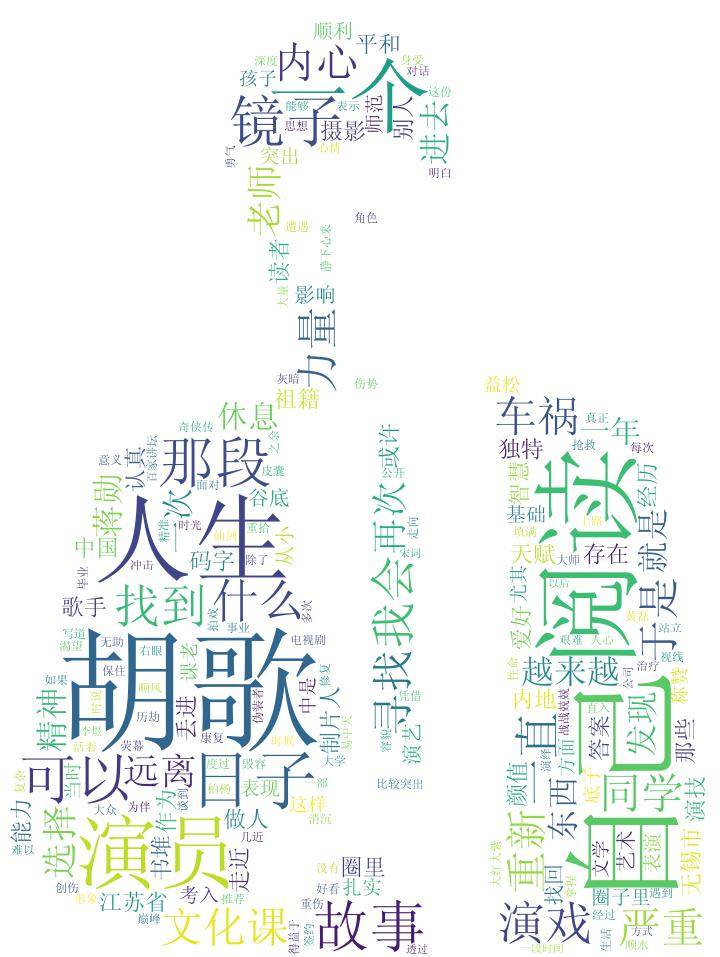
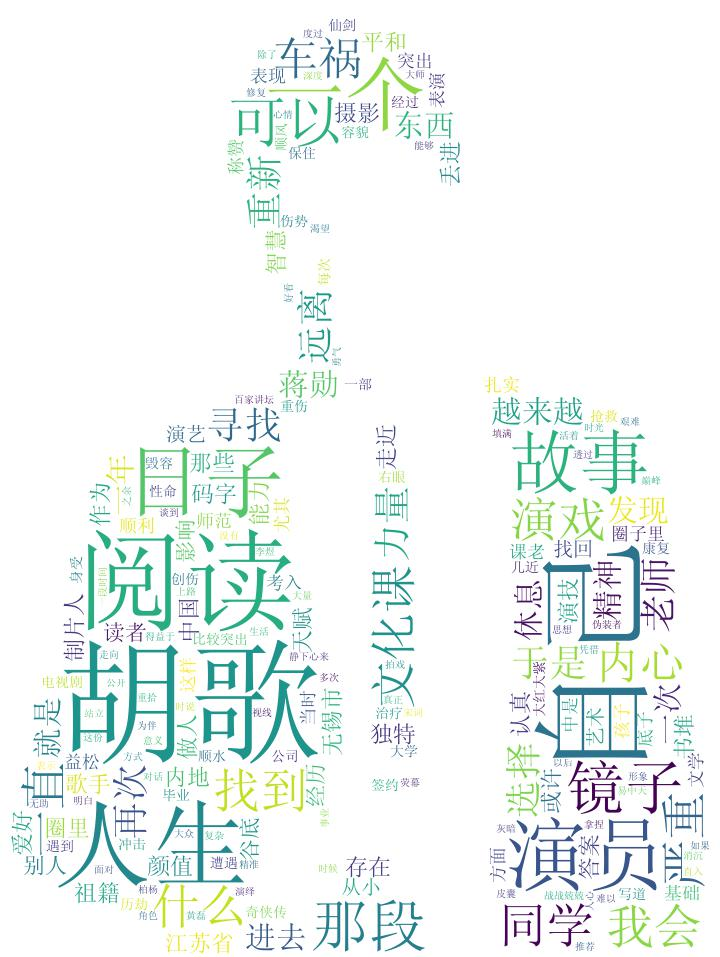
update README and update project-002-hugo_wordCloud

diff --git a/project/002 制作人物词云/wordCloud.md b/project/002 制作人物词云/wordCloud.md
@@ -1,0 +1,64 @@
+#实战练习之制作词云
+
+### 代码整体思路
+
+1、函数 word_segment，用于对文本内容进行分词。
+
+2、函数 generate_wordCloud，用于生成词云。
+
+### 具体代码思路
+
+1、对文本内容进行分词：读取文本文件hugo.txt中关于胡歌的人物事迹内容，使用jieba进行分词。
+
+2、生成词云：读取背景图片，设置背景颜色、背景图片，同时设置能够兼容中文字体，以免出现乱码。最后就是根据分词后的文本内容生成词云并将图片保存到本地。
+
+### 代码如下
+
+	import matplotlib.pyplot as plt
+	from wordcloud import WordCloud
+	import jieba
+	import numpy as np
+	from PIL import Image
+	
+	# 分词
+	def word_segment(fileName):
+	    with open(fileName, 'r', encoding='utf-8') as f:
+	        myText = f.read()
+	    myText = " ".join(jieba.cut(myText))    # 使用jieba进行分词
+	
+	    return myText
+	
+	def generate_wordCloud(myText):
+	    # 读取背景图片
+	    hugo_mask = np.array(Image.open("hugo_mask.jpg"))
+	    wordCloud = WordCloud(background_color = "white",     # 设置背景颜色
+	                          mask = hugo_mask,  # 设置背景图片
+	                          font_path = "simsun.ttf"        # 兼容中文字体，不然中文会显示乱码
+	                          )
+	    wordCloud.generate(myText)  # 生成词云
+	    wordCloud.to_file('hugo.jpg')   # 保存图片到本地
+	
+	    plt.imshow(wordCloud, interpolation='bilinear')     # 绘制词云
+	    plt.axis("off")     #不显示坐标尺寸
+	    plt.show()  # 展现词云
+	
+	if __name__ == '__main__':
+	    fileName = 'hugo.txt'
+	    myText = word_segment(fileName)
+	    generate_wordCloud(myText)
+
+背景图片如下所示：
+
+![](https://i.imgur.com/Le8zPKy.jpg)
+
+最终输出图片如下所示：
+
+![](https://i.imgur.com/S1ljTgg.jpg)
+
+### 总结
+
+代码写得比较简单，不过这个小项目蛮有趣的，之前总是在网上看到类似的词云，觉得很酷炫，但是没有尝试做过。这回自己写了代码，然后运行自己的程序，看到最终输出的图片，还是觉得蛮开心的。
+
+胡歌是我唯一喜欢的中国明星，相信很多人也和我一样，制作出自己偶像的词云，是不是感觉很棒呢？
+
+生活总是不乏乐趣，编程亦是如此。

diff --git a/README.md b/README.md
@@ -9,7 +9,7 @@
 
 ## 编写方式及编写进度
 
-> 1. 本项目计划编写成多个系列的教程，包括：Python基础篇，Python算法篇，基于Python的图像识别篇（后期还会有新篇章）
+> 1. 本项目计划编写成多个系列的教程，包括：Python基础篇，Python项目篇，Python算法篇，基于Python的图像识别篇等等
 
 > 2. 本项目从Python基础篇开始写起，该篇章始于2018年7月21日，预计完成时间2018年8月21日（暂定）
 
@@ -34,4 +34,12 @@
 
 > chapter05 用户输入和while循环
 
+### 项目篇
 
+> 001 历年四六级试卷单词统计
+
+> 002 制作人物词云
+
+> 003 简单的翻译小程序
+
+> 004 国内三大交易所数据爬虫程序
